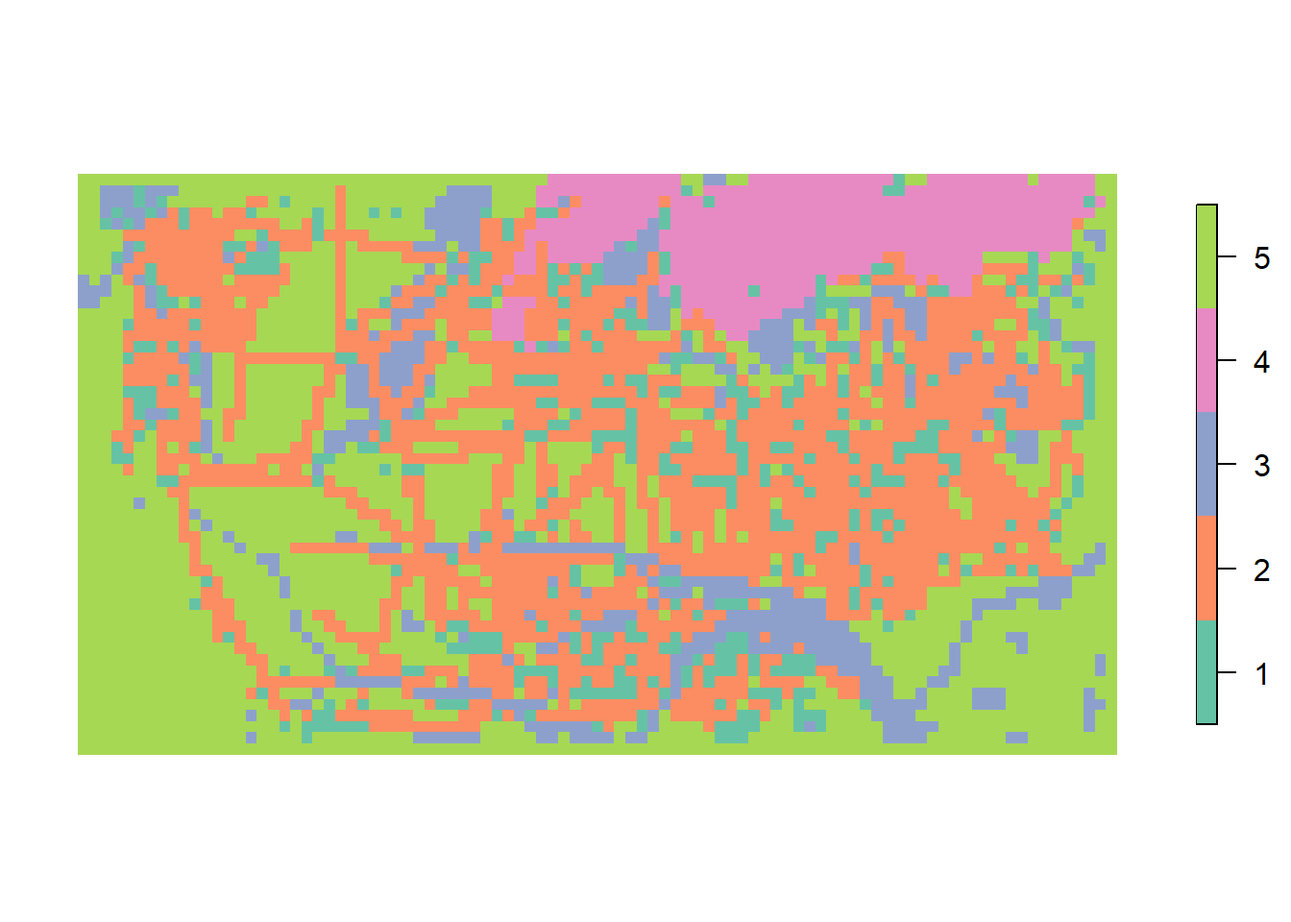
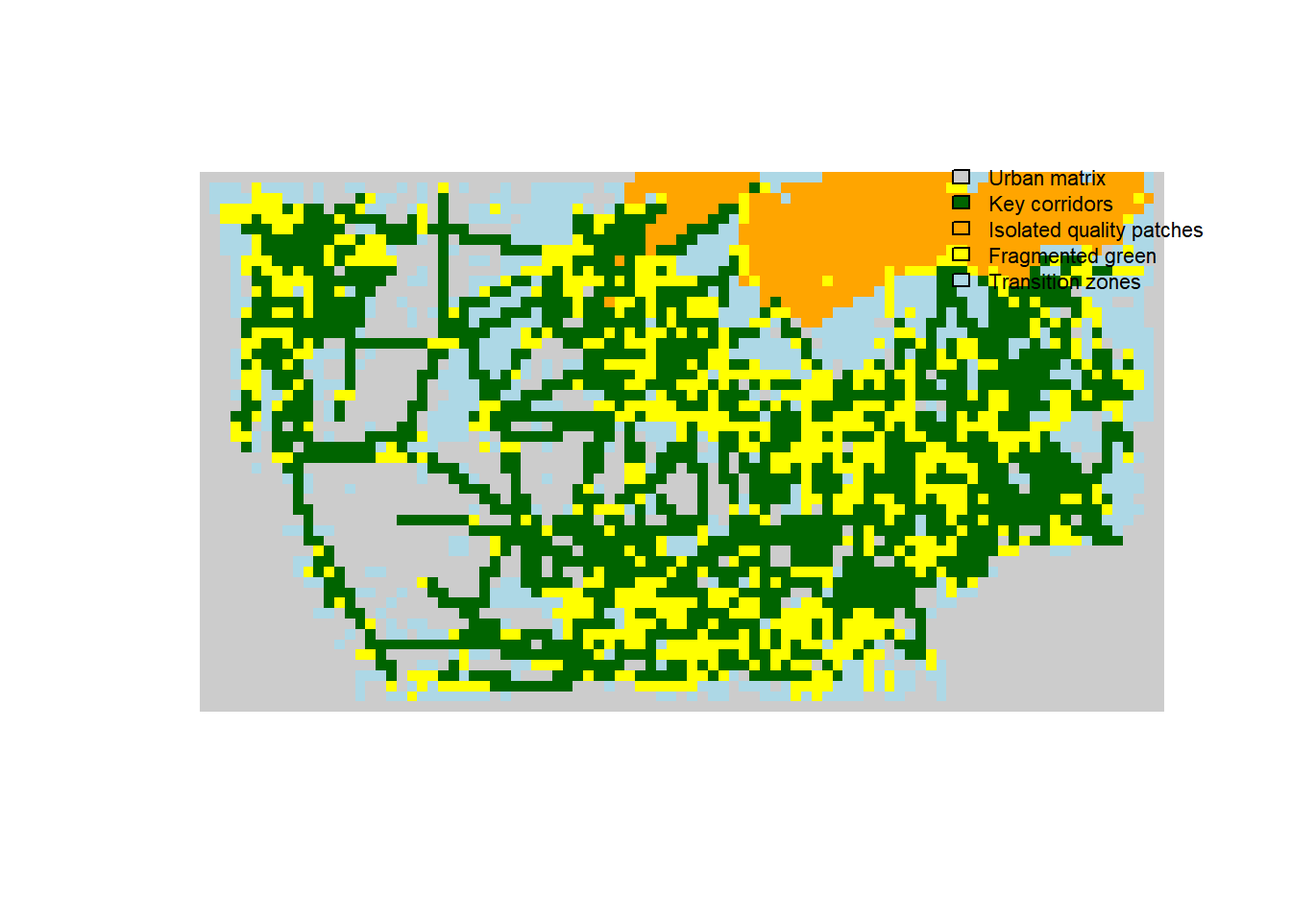
clustering again

diff --git a/report.html b/report.html
@@ -319,7 +319,7 @@ Figure&nbsp;4: Guangzhou Local Climate Zones
 <p>Typology clusters were derived directly from the data through unsupervised K-means clustering, performed in QGIS using a Python script.</p>
 <section id="clustering" class="level4">
 <h4 class="anchored" data-anchor-id="clustering">Clustering</h4>
-<p>A regular spatial grid was used as the common analysis unit for both cities, with all three criteria summarised per grid cell. Betweenness centrality values from the top 500 links were spatially joined to the grid using an intersection, with the mean normalised BC value computed per cell. Green patch metrics (patch count and mean patch capacity based on the dpc_sum field from Graphab) were similarly joined to the grid. Grid cells with no links or patches passing through them were assigned a value of zero, since they simply have no green connectivity (this is not missing data but a meaningful absence). Before clustering, all variables were standardised using z-score normalisation (StandardScaler) to ensure equal weighting regardless of original scale. K-means clustering (k=5) was then applied to the three variables: BC mean, patch count, and mean patch capacity; using the scikit-learn implementation in Python Console in QGIS. The number of clusters was set to five to produce interpretable ecological profiles while keeping sufficient differentiation between groups. After clustering, the dominant LCZ class per cluster was checked to understand what kind of urban environment each cluster is typically located in. This was done as a separate step after clustering, since LCZ is a categorical variable and including it directly in the K-means algorithm would have distorted the results.</p>
+<p>A regular spatial grid was used as the common analysis unit for both cities, with all three criteria summarised per grid cell. Betweenness centrality values from the top 500 links were spatially joined to the grid using an intersection, with the mean normalised BC value computed per cell. Green patch metrics (patch count and mean patch capacity based on the dpc_sum field from Graphab) were similarly joined to the grid. Grid cells with no links or patches passing through them were assigned a value of zero, since they simply have no green connectivity (this is not missing data but a meaningful absence). efore clustering, the variables were standardised using z-score normalisation to ensure equal weighting regardless of original scale. K-means clustering (k = 5) was then applied to these three standardised variables. Clustering was implemented as a reusable function in R, executed directly within the reproducible Quarto report After clustering, the dominant LCZ class per cluster was checked to understand what kind of urban environment each cluster is typically located in. This was done as a separate step after clustering, since LCZ is a categorical variable and including it directly in the K-means algorithm would have distorted the results.</p>
 </section>
 </section>
 <section id="study-area-selection---more-info-here" class="level3">
@@ -427,49 +427,53 @@ Figure&nbsp;7: Ecological connectivity within the boundary of Rotterdam.
 <h3 class="anchored" data-anchor-id="typologies">Typologies</h3>
 <p>The function below implements the clustering pipeline described in the Methods section. It standardises the betweenness centrality, patch count, patch capacity, and LCZ variables, then applies K-means clustering with five clusters. The same function is applied separately to Rotterdam and Guangzhou in the subsections below.</p>
 <div class="cell">
-<div class="code-copy-outer-scaffold"><div class="sourceCode cell-code" id="cb6"><pre class="sourceCode r code-with-copy"><code class="sourceCode r"><span id="cb6-1"><a href="#cb6-1" aria-hidden="true" tabindex="-1"></a><span class="co"># Implements the clustering pipeline described in the Methods section.</span></span>
-<span id="cb6-2"><a href="#cb6-2" aria-hidden="true" tabindex="-1"></a><span class="co"># Standardises BC, patch count, patch capacity, and LCZ, then runs K-means (k=5).</span></span>
-<span id="cb6-3"><a href="#cb6-3" aria-hidden="true" tabindex="-1"></a></span>
-<span id="cb6-4"><a href="#cb6-4" aria-hidden="true" tabindex="-1"></a>cluster_grid <span class="ot">&lt;-</span> <span class="cf">function</span>(gpkg_path, bc_col, patch_count_col, patch_cap_col, lcz_col,</span>
-<span id="cb6-5"><a href="#cb6-5" aria-hidden="true" tabindex="-1"></a>                          <span class="at">k =</span> <span class="dv">5</span>, <span class="at">seed =</span> <span class="dv">42</span>) {</span>
-<span id="cb6-6"><a href="#cb6-6" aria-hidden="true" tabindex="-1"></a>  <span class="co"># Load the grid (with BC, patch, and LCZ attributes already joined in QGIS)</span></span>
-<span id="cb6-7"><a href="#cb6-7" aria-hidden="true" tabindex="-1"></a>  grid <span class="ot">&lt;-</span> <span class="fu">st_read</span>(gpkg_path, <span class="at">quiet =</span> <span class="cn">TRUE</span>)</span>
-<span id="cb6-8"><a href="#cb6-8" aria-hidden="true" tabindex="-1"></a></span>
-<span id="cb6-9"><a href="#cb6-9" aria-hidden="true" tabindex="-1"></a>  <span class="co"># Select the four clustering variables and treat NA as "no connectivity / no patches"</span></span>
+<div class="code-copy-outer-scaffold"><div class="sourceCode cell-code" id="cb6"><pre class="sourceCode r code-with-copy"><code class="sourceCode r"><span id="cb6-1"><a href="#cb6-1" aria-hidden="true" tabindex="-1"></a>cluster_grid <span class="ot">&lt;-</span> <span class="cf">function</span>(gpkg_path, bc_col, patch_count_col, patch_cap_col, lcz_col,</span>
+<span id="cb6-2"><a href="#cb6-2" aria-hidden="true" tabindex="-1"></a>                          <span class="at">k =</span> <span class="dv">5</span>, <span class="at">seed =</span> <span class="dv">42</span>) {</span>
+<span id="cb6-3"><a href="#cb6-3" aria-hidden="true" tabindex="-1"></a>  grid <span class="ot">&lt;-</span> <span class="fu">st_read</span>(gpkg_path, <span class="at">quiet =</span> <span class="cn">TRUE</span>)</span>
+<span id="cb6-4"><a href="#cb6-4" aria-hidden="true" tabindex="-1"></a></span>
+<span id="cb6-5"><a href="#cb6-5" aria-hidden="true" tabindex="-1"></a>  <span class="co"># Replace NA with 0 directly in the grid — NA here means "no links/patches</span></span>
+<span id="cb6-6"><a href="#cb6-6" aria-hidden="true" tabindex="-1"></a>  <span class="co"># passing through this cell," i.e. zero green connectivity, not missing data</span></span>
+<span id="cb6-7"><a href="#cb6-7" aria-hidden="true" tabindex="-1"></a>  grid <span class="ot">&lt;-</span> grid <span class="sc">|&gt;</span></span>
+<span id="cb6-8"><a href="#cb6-8" aria-hidden="true" tabindex="-1"></a>    <span class="fu">mutate</span>(<span class="fu">across</span>(<span class="fu">all_of</span>(<span class="fu">c</span>(bc_col, patch_count_col, patch_cap_col)), <span class="sc">~</span> <span class="fu">replace_na</span>(.x, <span class="dv">0</span>)))</span>
+<span id="cb6-9"><a href="#cb6-9" aria-hidden="true" tabindex="-1"></a></span>
 <span id="cb6-10"><a href="#cb6-10" aria-hidden="true" tabindex="-1"></a>  features <span class="ot">&lt;-</span> grid <span class="sc">|&gt;</span></span>
 <span id="cb6-11"><a href="#cb6-11" aria-hidden="true" tabindex="-1"></a>    <span class="fu">st_drop_geometry</span>() <span class="sc">|&gt;</span></span>
-<span id="cb6-12"><a href="#cb6-12" aria-hidden="true" tabindex="-1"></a>    <span class="fu">select</span>(<span class="fu">all_of</span>(<span class="fu">c</span>(bc_col, patch_count_col, patch_cap_col, lcz_col))) <span class="sc">|&gt;</span></span>
-<span id="cb6-13"><a href="#cb6-13" aria-hidden="true" tabindex="-1"></a>    <span class="fu">mutate</span>(<span class="fu">across</span>(<span class="fu">everything</span>(), <span class="sc">~</span> <span class="fu">replace_na</span>(.x, <span class="dv">0</span>)))</span>
-<span id="cb6-14"><a href="#cb6-14" aria-hidden="true" tabindex="-1"></a></span>
-<span id="cb6-15"><a href="#cb6-15" aria-hidden="true" tabindex="-1"></a>  <span class="co"># Standardise (z-score) so variables on different scales contribute equally</span></span>
-<span id="cb6-16"><a href="#cb6-16" aria-hidden="true" tabindex="-1"></a>  X_scaled <span class="ot">&lt;-</span> <span class="fu">scale</span>(features)</span>
-<span id="cb6-17"><a href="#cb6-17" aria-hidden="true" tabindex="-1"></a></span>
-<span id="cb6-18"><a href="#cb6-18" aria-hidden="true" tabindex="-1"></a>  <span class="co"># K-means with a fixed seed for reproducible cluster assignment</span></span>
-<span id="cb6-19"><a href="#cb6-19" aria-hidden="true" tabindex="-1"></a>  <span class="fu">set.seed</span>(seed)</span>
-<span id="cb6-20"><a href="#cb6-20" aria-hidden="true" tabindex="-1"></a>  km <span class="ot">&lt;-</span> <span class="fu">kmeans</span>(X_scaled, <span class="at">centers =</span> k, <span class="at">nstart =</span> <span class="dv">20</span>)</span>
-<span id="cb6-21"><a href="#cb6-21" aria-hidden="true" tabindex="-1"></a>  grid<span class="sc">$</span>cluster_id <span class="ot">&lt;-</span> <span class="fu">as.factor</span>(km<span class="sc">$</span>cluster)</span>
-<span id="cb6-22"><a href="#cb6-22" aria-hidden="true" tabindex="-1"></a></span>
-<span id="cb6-23"><a href="#cb6-23" aria-hidden="true" tabindex="-1"></a>  <span class="co"># Mean profile per cluster: used to interpret what each cluster represents</span></span>
-<span id="cb6-24"><a href="#cb6-24" aria-hidden="true" tabindex="-1"></a>  profile <span class="ot">&lt;-</span> grid <span class="sc">|&gt;</span></span>
-<span id="cb6-25"><a href="#cb6-25" aria-hidden="true" tabindex="-1"></a>    <span class="fu">st_drop_geometry</span>() <span class="sc">|&gt;</span></span>
-<span id="cb6-26"><a href="#cb6-26" aria-hidden="true" tabindex="-1"></a>    <span class="fu">group_by</span>(cluster_id) <span class="sc">|&gt;</span></span>
-<span id="cb6-27"><a href="#cb6-27" aria-hidden="true" tabindex="-1"></a>    <span class="fu">summarise</span>(</span>
-<span id="cb6-28"><a href="#cb6-28" aria-hidden="true" tabindex="-1"></a>      <span class="at">n        =</span> <span class="fu">n</span>(),</span>
-<span id="cb6-29"><a href="#cb6-29" aria-hidden="true" tabindex="-1"></a>      <span class="at">bc_mean  =</span> <span class="fu">round</span>(<span class="fu">mean</span>(.data[[bc_col]], <span class="at">na.rm =</span> <span class="cn">TRUE</span>), <span class="dv">4</span>),</span>
-<span id="cb6-30"><a href="#cb6-30" aria-hidden="true" tabindex="-1"></a>      <span class="at">patches  =</span> <span class="fu">round</span>(<span class="fu">mean</span>(.data[[patch_count_col]], <span class="at">na.rm =</span> <span class="cn">TRUE</span>), <span class="dv">2</span>),</span>
-<span id="cb6-31"><a href="#cb6-31" aria-hidden="true" tabindex="-1"></a>      <span class="at">capacity =</span> <span class="fu">round</span>(<span class="fu">mean</span>(.data[[patch_cap_col]], <span class="at">na.rm =</span> <span class="cn">TRUE</span>), <span class="dv">4</span>),</span>
-<span id="cb6-32"><a href="#cb6-32" aria-hidden="true" tabindex="-1"></a>      <span class="at">.groups  =</span> <span class="st">"drop"</span></span>
-<span id="cb6-33"><a href="#cb6-33" aria-hidden="true" tabindex="-1"></a>    )</span>
-<span id="cb6-34"><a href="#cb6-34" aria-hidden="true" tabindex="-1"></a></span>
-<span id="cb6-35"><a href="#cb6-35" aria-hidden="true" tabindex="-1"></a>  <span class="co"># Dominant LCZ classes per cluster, checked separately since LCZ is categorical</span></span>
-<span id="cb6-36"><a href="#cb6-36" aria-hidden="true" tabindex="-1"></a>  lcz_summary <span class="ot">&lt;-</span> grid <span class="sc">|&gt;</span></span>
-<span id="cb6-37"><a href="#cb6-37" aria-hidden="true" tabindex="-1"></a>    <span class="fu">st_drop_geometry</span>() <span class="sc">|&gt;</span></span>
-<span id="cb6-38"><a href="#cb6-38" aria-hidden="true" tabindex="-1"></a>    <span class="fu">group_by</span>(cluster_id) <span class="sc">|&gt;</span></span>
-<span id="cb6-39"><a href="#cb6-39" aria-hidden="true" tabindex="-1"></a>    <span class="fu">count</span>(.data[[lcz_col]], <span class="at">sort =</span> <span class="cn">TRUE</span>) <span class="sc">|&gt;</span></span>
-<span id="cb6-40"><a href="#cb6-40" aria-hidden="true" tabindex="-1"></a>    <span class="fu">slice_max</span>(n, <span class="at">n =</span> <span class="dv">3</span>, <span class="at">with_ties =</span> <span class="cn">FALSE</span>)</span>
-<span id="cb6-41"><a href="#cb6-41" aria-hidden="true" tabindex="-1"></a></span>
-<span id="cb6-42"><a href="#cb6-42" aria-hidden="true" tabindex="-1"></a>  <span class="fu">list</span>(<span class="at">grid =</span> grid, <span class="at">profile =</span> profile, <span class="at">lcz_summary =</span> lcz_summary)</span>
-<span id="cb6-43"><a href="#cb6-43" aria-hidden="true" tabindex="-1"></a>}</span></code></pre></div><button title="Copy to Clipboard" class="code-copy-button"><i class="bi"></i></button></div>
+<span id="cb6-12"><a href="#cb6-12" aria-hidden="true" tabindex="-1"></a>    <span class="fu">select</span>(<span class="fu">all_of</span>(<span class="fu">c</span>(bc_col, patch_count_col, patch_cap_col)))</span>
+<span id="cb6-13"><a href="#cb6-13" aria-hidden="true" tabindex="-1"></a></span>
+<span id="cb6-14"><a href="#cb6-14" aria-hidden="true" tabindex="-1"></a>  X_scaled <span class="ot">&lt;-</span> <span class="fu">scale</span>(features)</span>
+<span id="cb6-15"><a href="#cb6-15" aria-hidden="true" tabindex="-1"></a></span>
+<span id="cb6-16"><a href="#cb6-16" aria-hidden="true" tabindex="-1"></a>  <span class="fu">set.seed</span>(seed)</span>
+<span id="cb6-17"><a href="#cb6-17" aria-hidden="true" tabindex="-1"></a>  km <span class="ot">&lt;-</span> <span class="fu">kmeans</span>(X_scaled, <span class="at">centers =</span> k, <span class="at">nstart =</span> <span class="dv">20</span>)</span>
+<span id="cb6-18"><a href="#cb6-18" aria-hidden="true" tabindex="-1"></a>  grid<span class="sc">$</span>cluster_id <span class="ot">&lt;-</span> <span class="fu">as.factor</span>(km<span class="sc">$</span>cluster)</span>
+<span id="cb6-19"><a href="#cb6-19" aria-hidden="true" tabindex="-1"></a></span>
+<span id="cb6-20"><a href="#cb6-20" aria-hidden="true" tabindex="-1"></a>  profile <span class="ot">&lt;-</span> grid <span class="sc">|&gt;</span></span>
+<span id="cb6-21"><a href="#cb6-21" aria-hidden="true" tabindex="-1"></a>    <span class="fu">st_drop_geometry</span>() <span class="sc">|&gt;</span></span>
+<span id="cb6-22"><a href="#cb6-22" aria-hidden="true" tabindex="-1"></a>    <span class="fu">group_by</span>(cluster_id) <span class="sc">|&gt;</span></span>
+<span id="cb6-23"><a href="#cb6-23" aria-hidden="true" tabindex="-1"></a>    <span class="fu">summarise</span>(</span>
+<span id="cb6-24"><a href="#cb6-24" aria-hidden="true" tabindex="-1"></a>      <span class="at">n        =</span> <span class="fu">n</span>(),</span>
+<span id="cb6-25"><a href="#cb6-25" aria-hidden="true" tabindex="-1"></a>      <span class="at">bc_mean  =</span> <span class="fu">round</span>(<span class="fu">mean</span>(.data[[bc_col]], <span class="at">na.rm =</span> <span class="cn">TRUE</span>), <span class="dv">4</span>),</span>
+<span id="cb6-26"><a href="#cb6-26" aria-hidden="true" tabindex="-1"></a>      <span class="at">patches  =</span> <span class="fu">round</span>(<span class="fu">mean</span>(.data[[patch_count_col]], <span class="at">na.rm =</span> <span class="cn">TRUE</span>), <span class="dv">2</span>),</span>
+<span id="cb6-27"><a href="#cb6-27" aria-hidden="true" tabindex="-1"></a>      <span class="at">capacity =</span> <span class="fu">round</span>(<span class="fu">mean</span>(.data[[patch_cap_col]], <span class="at">na.rm =</span> <span class="cn">TRUE</span>), <span class="dv">4</span>),</span>
+<span id="cb6-28"><a href="#cb6-28" aria-hidden="true" tabindex="-1"></a>      <span class="at">.groups  =</span> <span class="st">"drop"</span></span>
+<span id="cb6-29"><a href="#cb6-29" aria-hidden="true" tabindex="-1"></a>    )</span>
+<span id="cb6-30"><a href="#cb6-30" aria-hidden="true" tabindex="-1"></a></span>
+<span id="cb6-31"><a href="#cb6-31" aria-hidden="true" tabindex="-1"></a>  lcz_summary <span class="ot">&lt;-</span> grid <span class="sc">|&gt;</span></span>
+<span id="cb6-32"><a href="#cb6-32" aria-hidden="true" tabindex="-1"></a>    <span class="fu">st_drop_geometry</span>() <span class="sc">|&gt;</span></span>
+<span id="cb6-33"><a href="#cb6-33" aria-hidden="true" tabindex="-1"></a>    <span class="fu">group_by</span>(cluster_id) <span class="sc">|&gt;</span></span>
+<span id="cb6-34"><a href="#cb6-34" aria-hidden="true" tabindex="-1"></a>    <span class="fu">count</span>(.data[[lcz_col]], <span class="at">sort =</span> <span class="cn">TRUE</span>) <span class="sc">|&gt;</span></span>
+<span id="cb6-35"><a href="#cb6-35" aria-hidden="true" tabindex="-1"></a>    <span class="fu">slice_max</span>(n, <span class="at">n =</span> <span class="dv">3</span>, <span class="at">with_ties =</span> <span class="cn">FALSE</span>)</span>
+<span id="cb6-36"><a href="#cb6-36" aria-hidden="true" tabindex="-1"></a></span>
+<span id="cb6-37"><a href="#cb6-37" aria-hidden="true" tabindex="-1"></a>  <span class="fu">list</span>(<span class="at">grid =</span> grid, <span class="at">profile =</span> profile, <span class="at">lcz_summary =</span> lcz_summary)</span>
+<span id="cb6-38"><a href="#cb6-38" aria-hidden="true" tabindex="-1"></a>}</span></code></pre></div><button title="Copy to Clipboard" class="code-copy-button"><i class="bi"></i></button></div>
+</div>
+<div class="cell">
+<div class="code-copy-outer-scaffold"><div class="sourceCode cell-code" id="cb7"><pre class="sourceCode r code-with-copy"><code class="sourceCode r"><span id="cb7-1"><a href="#cb7-1" aria-hidden="true" tabindex="-1"></a>cluster_palette <span class="ot">&lt;-</span> <span class="fu">c</span>(</span>
+<span id="cb7-2"><a href="#cb7-2" aria-hidden="true" tabindex="-1"></a>  <span class="st">"Urban matrix"</span>             <span class="ot">=</span> <span class="st">"gray80"</span>,</span>
+<span id="cb7-3"><a href="#cb7-3" aria-hidden="true" tabindex="-1"></a>  <span class="st">"Key corridors"</span>            <span class="ot">=</span> <span class="st">"darkgreen"</span>,</span>
+<span id="cb7-4"><a href="#cb7-4" aria-hidden="true" tabindex="-1"></a>  <span class="st">"Isolated quality patches"</span> <span class="ot">=</span> <span class="st">"orange"</span>,</span>
+<span id="cb7-5"><a href="#cb7-5" aria-hidden="true" tabindex="-1"></a>  <span class="st">"Fragmented green"</span>         <span class="ot">=</span> <span class="st">"yellow"</span>,</span>
+<span id="cb7-6"><a href="#cb7-6" aria-hidden="true" tabindex="-1"></a>  <span class="st">"Transition zones"</span>         <span class="ot">=</span> <span class="st">"lightblue"</span></span>
+<span id="cb7-7"><a href="#cb7-7" aria-hidden="true" tabindex="-1"></a>)</span></code></pre></div><button title="Copy to Clipboard" class="code-copy-button"><i class="bi"></i></button></div>
 </div>
 <section id="rotterdam-1" class="level4">
 <h4 class="anchored" data-anchor-id="rotterdam-1">Rotterdam</h4>
@@ -480,15 +484,15 @@ Figure&nbsp;7: Ecological connectivity within the boundary of Rotterdam.
 <h5 class="anchored" data-anchor-id="cluster-profiles-1">Cluster Profiles</h5>
 <p>K-means clustering of Rotterdam’s grid cells produced five ecological profiles. Table X presents the mean values per cluster for betweenness centrality, patch count, and patch capacity.</p>
 <div class="cell">
-<div class="code-copy-outer-scaffold"><div class="sourceCode cell-code" id="cb7"><pre class="sourceCode r code-with-copy"><code class="sourceCode r"><span id="cb7-1"><a href="#cb7-1" aria-hidden="true" tabindex="-1"></a>rt <span class="ot">&lt;-</span> <span class="fu">cluster_grid</span>(</span>
-<span id="cb7-2"><a href="#cb7-2" aria-hidden="true" tabindex="-1"></a>  <span class="st">"data/rt_grid_clustering.gpkg"</span>,</span>
-<span id="cb7-3"><a href="#cb7-3" aria-hidden="true" tabindex="-1"></a>  <span class="at">bc_col          =</span> <span class="st">"new_normal"</span>,</span>
-<span id="cb7-4"><a href="#cb7-4" aria-hidden="true" tabindex="-1"></a>  <span class="at">patch_count_col =</span> <span class="st">"dpc_total_"</span>,</span>
-<span id="cb7-5"><a href="#cb7-5" aria-hidden="true" tabindex="-1"></a>  <span class="at">patch_cap_col   =</span> <span class="st">"dpc_tota_2"</span>,</span>
-<span id="cb7-6"><a href="#cb7-6" aria-hidden="true" tabindex="-1"></a>  <span class="at">lcz_col         =</span> <span class="st">"majortity_lcz_grid__majority"</span></span>
-<span id="cb7-7"><a href="#cb7-7" aria-hidden="true" tabindex="-1"></a>)</span>
-<span id="cb7-8"><a href="#cb7-8" aria-hidden="true" tabindex="-1"></a></span>
-<span id="cb7-9"><a href="#cb7-9" aria-hidden="true" tabindex="-1"></a><span class="fu">kable</span>(rt<span class="sc">$</span>profile, <span class="at">caption =</span> <span class="st">"Rotterdam cluster profiles"</span>)</span></code></pre></div><button title="Copy to Clipboard" class="code-copy-button"><i class="bi"></i></button></div>
+<div class="code-copy-outer-scaffold"><div class="sourceCode cell-code" id="cb8"><pre class="sourceCode r code-with-copy"><code class="sourceCode r"><span id="cb8-1"><a href="#cb8-1" aria-hidden="true" tabindex="-1"></a>rt <span class="ot">&lt;-</span> <span class="fu">cluster_grid</span>(</span>
+<span id="cb8-2"><a href="#cb8-2" aria-hidden="true" tabindex="-1"></a>  <span class="st">"data/rt_grid_clustering.gpkg"</span>,</span>
+<span id="cb8-3"><a href="#cb8-3" aria-hidden="true" tabindex="-1"></a>  <span class="at">bc_col          =</span> <span class="st">"new_normal"</span>,</span>
+<span id="cb8-4"><a href="#cb8-4" aria-hidden="true" tabindex="-1"></a>  <span class="at">patch_count_col =</span> <span class="st">"dpc_total_"</span>,</span>
+<span id="cb8-5"><a href="#cb8-5" aria-hidden="true" tabindex="-1"></a>  <span class="at">patch_cap_col   =</span> <span class="st">"dpc_tota_2"</span>,</span>
+<span id="cb8-6"><a href="#cb8-6" aria-hidden="true" tabindex="-1"></a>  <span class="at">lcz_col         =</span> <span class="st">"majortity_lcz_grid__majority"</span></span>
+<span id="cb8-7"><a href="#cb8-7" aria-hidden="true" tabindex="-1"></a>)</span>
+<span id="cb8-8"><a href="#cb8-8" aria-hidden="true" tabindex="-1"></a></span>
+<span id="cb8-9"><a href="#cb8-9" aria-hidden="true" tabindex="-1"></a><span class="fu">kable</span>(rt<span class="sc">$</span>profile, <span class="at">caption =</span> <span class="st">"Rotterdam cluster profiles"</span>)</span></code></pre></div><button title="Copy to Clipboard" class="code-copy-button"><i class="bi"></i></button></div>
 <div class="cell-output-display">
 <table class="caption-top table table-sm table-striped small">
 <caption>Rotterdam cluster profiles</caption>
@@ -504,10 +508,10 @@ Figure&nbsp;7: Ecological connectivity within the boundary of Rotterdam.
 <tbody>
 <tr class="odd">
 <td style="text-align: left;">1</td>
-<td style="text-align: right;">2674</td>
-<td style="text-align: right;">0.0205</td>
-<td style="text-align: right;">1.00</td>
-<td style="text-align: right;">0.0011</td>
+<td style="text-align: right;">497</td>
+<td style="text-align: right;">0.0029</td>
+<td style="text-align: right;">1.04</td>
+<td style="text-align: right;">0.3742</td>
 </tr>
 <tr class="even">
 <td style="text-align: left;">2</td>
@@ -518,35 +522,47 @@ Figure&nbsp;7: Ecological connectivity within the boundary of Rotterdam.
 </tr>
 <tr class="odd">
 <td style="text-align: left;">3</td>
-<td style="text-align: right;">2767</td>
-<td style="text-align: right;">0.0227</td>
-<td style="text-align: right;">1.00</td>
-<td style="text-align: right;">0.0354</td>
+<td style="text-align: right;">759</td>
+<td style="text-align: right;">0.0087</td>
+<td style="text-align: right;">2.21</td>
+<td style="text-align: right;">0.0248</td>
 </tr>
 <tr class="even">
 <td style="text-align: left;">4</td>
-<td style="text-align: right;">497</td>
-<td style="text-align: right;">0.0093</td>
-<td style="text-align: right;">1.04</td>
-<td style="text-align: right;">0.3742</td>
+<td style="text-align: right;">2266</td>
+<td style="text-align: right;">0.0092</td>
+<td style="text-align: right;">1.00</td>
+<td style="text-align: right;">0.0348</td>
 </tr>
 <tr class="odd">
 <td style="text-align: left;">5</td>
-<td style="text-align: right;">759</td>
-<td style="text-align: right;">0.0145</td>
-<td style="text-align: right;">2.21</td>
-<td style="text-align: right;">0.0248</td>
+<td style="text-align: right;">3175</td>
+<td style="text-align: right;">0.0005</td>
+<td style="text-align: right;">0.00</td>
+<td style="text-align: right;">0.0000</td>
 </tr>
 </tbody>
 </table>
 </div>
+<div class="code-copy-outer-scaffold"><div class="sourceCode cell-code" id="cb9"><pre class="sourceCode r code-with-copy"><code class="sourceCode r"><span id="cb9-1"><a href="#cb9-1" aria-hidden="true" tabindex="-1"></a>rt_roles <span class="ot">&lt;-</span> <span class="fu">c</span>(</span>
+<span id="cb9-2"><a href="#cb9-2" aria-hidden="true" tabindex="-1"></a>  <span class="st">"1"</span> <span class="ot">=</span> <span class="st">"Isolated quality patches"</span>,</span>
+<span id="cb9-3"><a href="#cb9-3" aria-hidden="true" tabindex="-1"></a>  <span class="st">"2"</span> <span class="ot">=</span> <span class="st">"Key corridors"</span>,</span>
+<span id="cb9-4"><a href="#cb9-4" aria-hidden="true" tabindex="-1"></a>  <span class="st">"3"</span> <span class="ot">=</span> <span class="st">"Fragmented green"</span>,</span>
+<span id="cb9-5"><a href="#cb9-5" aria-hidden="true" tabindex="-1"></a>  <span class="st">"4"</span> <span class="ot">=</span> <span class="st">"Transition zones"</span>,</span>
+<span id="cb9-6"><a href="#cb9-6" aria-hidden="true" tabindex="-1"></a>  <span class="st">"5"</span> <span class="ot">=</span> <span class="st">"Urban matrix"</span></span>
+<span id="cb9-7"><a href="#cb9-7" aria-hidden="true" tabindex="-1"></a>)</span>
+<span id="cb9-8"><a href="#cb9-8" aria-hidden="true" tabindex="-1"></a></span>
+<span id="cb9-9"><a href="#cb9-9" aria-hidden="true" tabindex="-1"></a>rt<span class="sc">$</span>grid<span class="sc">$</span>cluster_role  <span class="ot">&lt;-</span> rt_roles[<span class="fu">as.character</span>(rt<span class="sc">$</span>grid<span class="sc">$</span>cluster_id)]</span>
+<span id="cb9-10"><a href="#cb9-10" aria-hidden="true" tabindex="-1"></a>rt<span class="sc">$</span>grid<span class="sc">$</span>cluster_color <span class="ot">&lt;-</span> cluster_palette[rt<span class="sc">$</span>grid<span class="sc">$</span>cluster_role]</span></code></pre></div><button title="Copy to Clipboard" class="code-copy-button"><i class="bi"></i></button></div>
 </div>
 <p>Cluster 2 is the largest group, representing the areas with no meaningful green network. Cluster 1 is the smallest (n=60) and represents the most ecologically significant cells which are key corridor locations with both high betweennesscentrality and quality patches. Cluster 3 are the areas with high-quality patches that are poorly connected to the broader network, dominated by LCZ class D (low plants) with some LCZ class A (dense trees). Cluster 4 shows fragmented green distributed across LCZ class 6 (open low-rise) and LCZ class 8 (large low-rise) urban areas. - edit this</p>
 </section>
 <section id="spatial-distribution" class="level5">
 <h5 class="anchored" data-anchor-id="spatial-distribution">Spatial Distribution</h5>
 <div class="cell">
-<div class="code-copy-outer-scaffold"><div class="sourceCode cell-code" id="cb8"><pre class="sourceCode r code-with-copy"><code class="sourceCode r"><span id="cb8-1"><a href="#cb8-1" aria-hidden="true" tabindex="-1"></a><span class="fu">plot</span>(rt<span class="sc">$</span>grid[<span class="st">"cluster_id"</span>], <span class="at">main =</span> <span class="cn">NULL</span>, <span class="at">border =</span> <span class="cn">NA</span>)</span></code></pre></div><button title="Copy to Clipboard" class="code-copy-button"><i class="bi"></i></button></div>
+<div class="code-copy-outer-scaffold"><div class="sourceCode cell-code" id="cb10"><pre class="sourceCode r code-with-copy"><code class="sourceCode r"><span id="cb10-1"><a href="#cb10-1" aria-hidden="true" tabindex="-1"></a><span class="fu">plot</span>(<span class="fu">st_geometry</span>(rt<span class="sc">$</span>grid), <span class="at">col =</span> rt<span class="sc">$</span>grid<span class="sc">$</span>cluster_color, <span class="at">border =</span> <span class="cn">NA</span>, <span class="at">main =</span> <span class="cn">NULL</span>)</span>
+<span id="cb10-2"><a href="#cb10-2" aria-hidden="true" tabindex="-1"></a><span class="fu">legend</span>(<span class="st">"topright"</span>, <span class="at">legend =</span> <span class="fu">names</span>(cluster_palette), <span class="at">fill =</span> cluster_palette,</span>
+<span id="cb10-3"><a href="#cb10-3" aria-hidden="true" tabindex="-1"></a>       <span class="at">cex =</span> <span class="fl">0.7</span>, <span class="at">bty =</span> <span class="st">"n"</span>)</span></code></pre></div><button title="Copy to Clipboard" class="code-copy-button"><i class="bi"></i></button></div>
 <div class="cell-output-display">
 <div class="quarto-figure quarto-figure-center">
 <figure class="figure">
@@ -564,15 +580,15 @@ Figure&nbsp;7: Ecological connectivity within the boundary of Rotterdam.
 <section id="cluster-profiles-2" class="level5">
 <h5 class="anchored" data-anchor-id="cluster-profiles-2">Cluster Profiles</h5>
 <div class="cell">
-<div class="code-copy-outer-scaffold"><div class="sourceCode cell-code" id="cb9"><pre class="sourceCode r code-with-copy"><code class="sourceCode r"><span id="cb9-1"><a href="#cb9-1" aria-hidden="true" tabindex="-1"></a>gz <span class="ot">&lt;-</span> <span class="fu">cluster_grid</span>(</span>
-<span id="cb9-2"><a href="#cb9-2" aria-hidden="true" tabindex="-1"></a>  <span class="st">"data/gz_grid_clustering.gpkg"</span>,</span>
-<span id="cb9-3"><a href="#cb9-3" aria-hidden="true" tabindex="-1"></a>  <span class="at">bc_col          =</span> <span class="st">"bc_d500_p0.5_beta1_graph10000_mean"</span>,</span>
-<span id="cb9-4"><a href="#cb9-4" aria-hidden="true" tabindex="-1"></a>  <span class="at">patch_count_col =</span> <span class="st">"dpc_sum_count"</span>,</span>
-<span id="cb9-5"><a href="#cb9-5" aria-hidden="true" tabindex="-1"></a>  <span class="at">patch_cap_col   =</span> <span class="st">"dpc_sum_mean"</span>,</span>
-<span id="cb9-6"><a href="#cb9-6" aria-hidden="true" tabindex="-1"></a>  <span class="at">lcz_col         =</span> <span class="st">"lcz_majority_grids_lcz__majority"</span></span>
-<span id="cb9-7"><a href="#cb9-7" aria-hidden="true" tabindex="-1"></a>)</span>
-<span id="cb9-8"><a href="#cb9-8" aria-hidden="true" tabindex="-1"></a></span>
-<span id="cb9-9"><a href="#cb9-9" aria-hidden="true" tabindex="-1"></a><span class="fu">kable</span>(gz<span class="sc">$</span>profile, <span class="at">caption =</span> <span class="st">"Guangzhou cluster profiles"</span>)</span></code></pre></div><button title="Copy to Clipboard" class="code-copy-button"><i class="bi"></i></button></div>
+<div class="code-copy-outer-scaffold"><div class="sourceCode cell-code" id="cb11"><pre class="sourceCode r code-with-copy"><code class="sourceCode r"><span id="cb11-1"><a href="#cb11-1" aria-hidden="true" tabindex="-1"></a>gz <span class="ot">&lt;-</span> <span class="fu">cluster_grid</span>(</span>
+<span id="cb11-2"><a href="#cb11-2" aria-hidden="true" tabindex="-1"></a>  <span class="st">"data/gz_grid_clustering.gpkg"</span>,</span>
+<span id="cb11-3"><a href="#cb11-3" aria-hidden="true" tabindex="-1"></a>  <span class="at">bc_col          =</span> <span class="st">"bc_d500_p0.5_beta1_graph10000_mean"</span>,</span>
+<span id="cb11-4"><a href="#cb11-4" aria-hidden="true" tabindex="-1"></a>  <span class="at">patch_count_col =</span> <span class="st">"dpc_sum_count"</span>,</span>
+<span id="cb11-5"><a href="#cb11-5" aria-hidden="true" tabindex="-1"></a>  <span class="at">patch_cap_col   =</span> <span class="st">"dpc_sum_mean"</span>,</span>
+<span id="cb11-6"><a href="#cb11-6" aria-hidden="true" tabindex="-1"></a>  <span class="at">lcz_col         =</span> <span class="st">"lcz_majority_grids_lcz__majority"</span></span>
+<span id="cb11-7"><a href="#cb11-7" aria-hidden="true" tabindex="-1"></a>)</span>
+<span id="cb11-8"><a href="#cb11-8" aria-hidden="true" tabindex="-1"></a></span>
+<span id="cb11-9"><a href="#cb11-9" aria-hidden="true" tabindex="-1"></a><span class="fu">kable</span>(gz<span class="sc">$</span>profile, <span class="at">caption =</span> <span class="st">"Guangzhou cluster profiles"</span>)</span></code></pre></div><button title="Copy to Clipboard" class="code-copy-button"><i class="bi"></i></button></div>
 <div class="cell-output-display">
 <table class="caption-top table table-sm table-striped small">
 <caption>Guangzhou cluster profiles</caption>
@@ -588,49 +604,61 @@ Figure&nbsp;7: Ecological connectivity within the boundary of Rotterdam.
 <tbody>
 <tr class="odd">
 <td style="text-align: left;">1</td>
-<td style="text-align: right;">458</td>
-<td style="text-align: right;">0.3911</td>
-<td style="text-align: right;">3.77</td>
-<td style="text-align: right;">0.0097</td>
+<td style="text-align: right;">1455</td>
+<td style="text-align: right;">0.4281</td>
+<td style="text-align: right;">0.52</td>
+<td style="text-align: right;">0.0212</td>
 </tr>
 <tr class="even">
 <td style="text-align: left;">2</td>
-<td style="text-align: right;">1638</td>
-<td style="text-align: right;">0.4292</td>
-<td style="text-align: right;">1.33</td>
-<td style="text-align: right;">0.0264</td>
+<td style="text-align: right;">1502</td>
+<td style="text-align: right;">0.0008</td>
+<td style="text-align: right;">0.00</td>
+<td style="text-align: right;">0.0000</td>
 </tr>
 <tr class="odd">
 <td style="text-align: left;">3</td>
-<td style="text-align: right;">507</td>
-<td style="text-align: right;">0.3897</td>
-<td style="text-align: right;">1.25</td>
-<td style="text-align: right;">0.0364</td>
+<td style="text-align: right;">760</td>
+<td style="text-align: right;">0.4115</td>
+<td style="text-align: right;">3.00</td>
+<td style="text-align: right;">0.0123</td>
 </tr>
 <tr class="even">
 <td style="text-align: left;">4</td>
-<td style="text-align: right;">447</td>
-<td style="text-align: right;">0.3804</td>
-<td style="text-align: right;">1.07</td>
-<td style="text-align: right;">0.4057</td>
+<td style="text-align: right;">406</td>
+<td style="text-align: right;">0.0588</td>
+<td style="text-align: right;">1.08</td>
+<td style="text-align: right;">0.4227</td>
 </tr>
 <tr class="odd">
 <td style="text-align: left;">5</td>
-<td style="text-align: right;">1786</td>
-<td style="text-align: right;">0.0246</td>
-<td style="text-align: right;">1.35</td>
-<td style="text-align: right;">0.0099</td>
+<td style="text-align: right;">713</td>
+<td style="text-align: right;">0.0049</td>
+<td style="text-align: right;">1.43</td>
+<td style="text-align: right;">0.0223</td>
 </tr>
 </tbody>
 </table>
 </div>
+<div class="code-copy-outer-scaffold"><div class="sourceCode cell-code" id="cb12"><pre class="sourceCode r code-with-copy"><code class="sourceCode r"><span id="cb12-1"><a href="#cb12-1" aria-hidden="true" tabindex="-1"></a>gz_roles <span class="ot">&lt;-</span> <span class="fu">c</span>(</span>
+<span id="cb12-2"><a href="#cb12-2" aria-hidden="true" tabindex="-1"></a>  <span class="st">"1"</span> <span class="ot">=</span> <span class="st">"Key corridors"</span>,</span>
+<span id="cb12-3"><a href="#cb12-3" aria-hidden="true" tabindex="-1"></a>  <span class="st">"2"</span> <span class="ot">=</span> <span class="st">"Urban matrix"</span>,</span>
+<span id="cb12-4"><a href="#cb12-4" aria-hidden="true" tabindex="-1"></a>  <span class="st">"3"</span> <span class="ot">=</span> <span class="st">"Fragmented green"</span>,</span>
+<span id="cb12-5"><a href="#cb12-5" aria-hidden="true" tabindex="-1"></a>  <span class="st">"4"</span> <span class="ot">=</span> <span class="st">"Isolated quality patches"</span>,</span>
+<span id="cb12-6"><a href="#cb12-6" aria-hidden="true" tabindex="-1"></a>  <span class="st">"5"</span> <span class="ot">=</span> <span class="st">"Transition zones"</span></span>
+<span id="cb12-7"><a href="#cb12-7" aria-hidden="true" tabindex="-1"></a>)</span>
+<span id="cb12-8"><a href="#cb12-8" aria-hidden="true" tabindex="-1"></a></span>
+<span id="cb12-9"><a href="#cb12-9" aria-hidden="true" tabindex="-1"></a>gz<span class="sc">$</span>grid<span class="sc">$</span>cluster_role  <span class="ot">&lt;-</span> gz_roles[<span class="fu">as.character</span>(gz<span class="sc">$</span>grid<span class="sc">$</span>cluster_id)]</span>
+<span id="cb12-10"><a href="#cb12-10" aria-hidden="true" tabindex="-1"></a>gz<span class="sc">$</span>grid<span class="sc">$</span>cluster_color <span class="ot">&lt;-</span> cluster_palette[gz<span class="sc">$</span>grid<span class="sc">$</span>cluster_role]</span></code></pre></div><button title="Copy to Clipboard" class="code-copy-button"><i class="bi"></i></button></div>
 </div>
 <p>Guangzhou’s clustering reveals a different ecological structure than Rotterdam. High BC values are more widespread, reflecting the larger and denser green network of Guangzhou. Cluster 3, similar to Rotterdam’s Cluster 3, identifies isolated quality patches dominated by LCZ class A (dense trees). Cluster 0 represnts fragmented green within the urban fabric, dominated by LCZ class 6 (open low-rise) and LCZ class 8 (large low-rise), comparable to Rotterdam’s Cluster 4. - edit this</p>
 </section>
 <section id="spatial-distribution-1" class="level5">
 <h5 class="anchored" data-anchor-id="spatial-distribution-1">Spatial Distribution</h5>
 <div class="cell">
-<div class="code-copy-outer-scaffold"><div class="sourceCode cell-code" id="cb10"><pre class="sourceCode r code-with-copy"><code class="sourceCode r"><span id="cb10-1"><a href="#cb10-1" aria-hidden="true" tabindex="-1"></a><span class="fu">plot</span>(gz<span class="sc">$</span>grid[<span class="st">"cluster_id"</span>], <span class="at">main =</span> <span class="cn">NULL</span>, <span class="at">border =</span> <span class="cn">NA</span>)</span></code></pre></div><button title="Copy to Clipboard" class="code-copy-button"><i class="bi"></i></button></div>
+<div class="code-copy-outer-scaffold"><div class="sourceCode cell-code" id="cb13"><pre class="sourceCode r code-with-copy"><code class="sourceCode r"><span id="cb13-1"><a href="#cb13-1" aria-hidden="true" tabindex="-1"></a><span class="fu">plot</span>(<span class="fu">st_geometry</span>(gz<span class="sc">$</span>grid), <span class="at">col =</span> gz<span class="sc">$</span>grid<span class="sc">$</span>cluster_color, <span class="at">border =</span> <span class="cn">NA</span>, <span class="at">main =</span> <span class="cn">NULL</span>)</span>
+<span id="cb13-2"><a href="#cb13-2" aria-hidden="true" tabindex="-1"></a><span class="fu">legend</span>(<span class="st">"topright"</span>, <span class="at">legend =</span> <span class="fu">names</span>(cluster_palette), <span class="at">fill =</span> cluster_palette,</span>
+<span id="cb13-3"><a href="#cb13-3" aria-hidden="true" tabindex="-1"></a>       <span class="at">cex =</span> <span class="fl">0.7</span>, <span class="at">bty =</span> <span class="st">"n"</span>)</span></code></pre></div><button title="Copy to Clipboard" class="code-copy-button"><i class="bi"></i></button></div>
 <div class="cell-output-display">
 <div class="quarto-figure quarto-figure-center">
 <figure class="figure">
